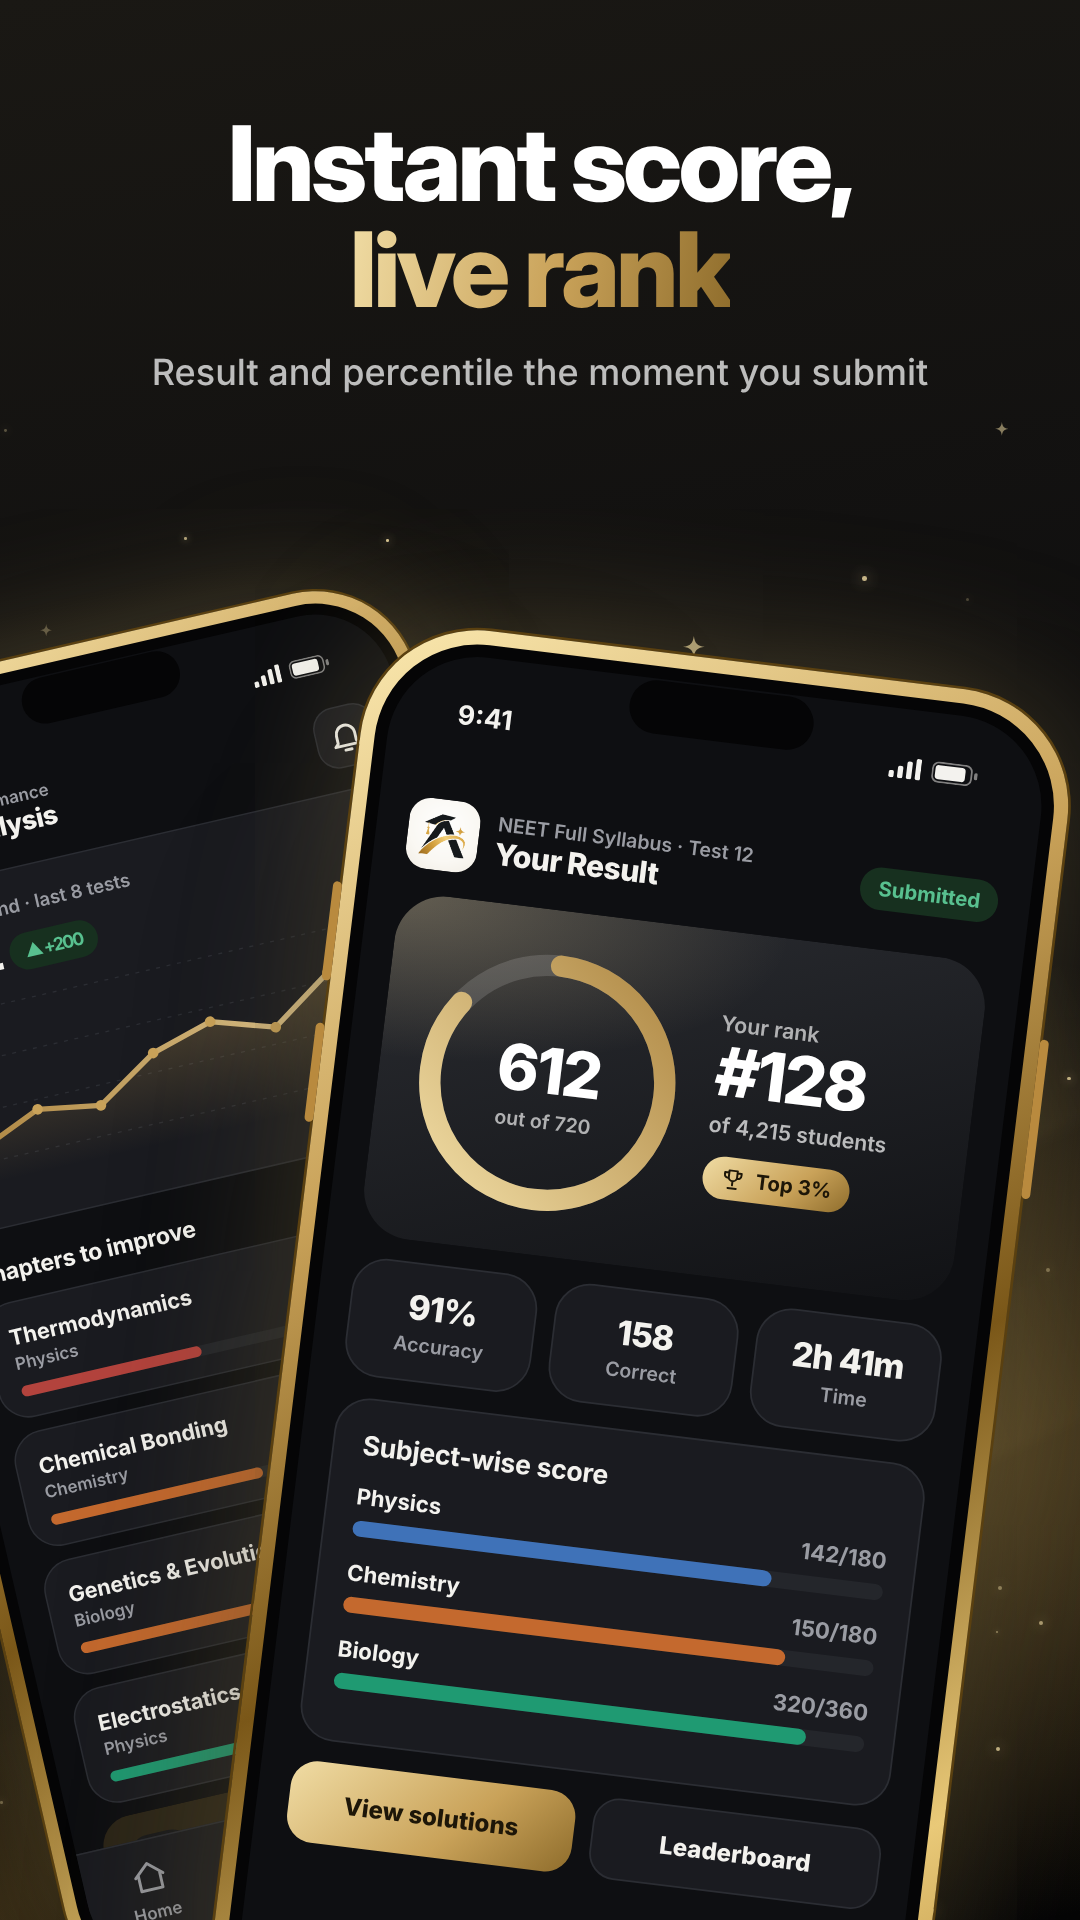
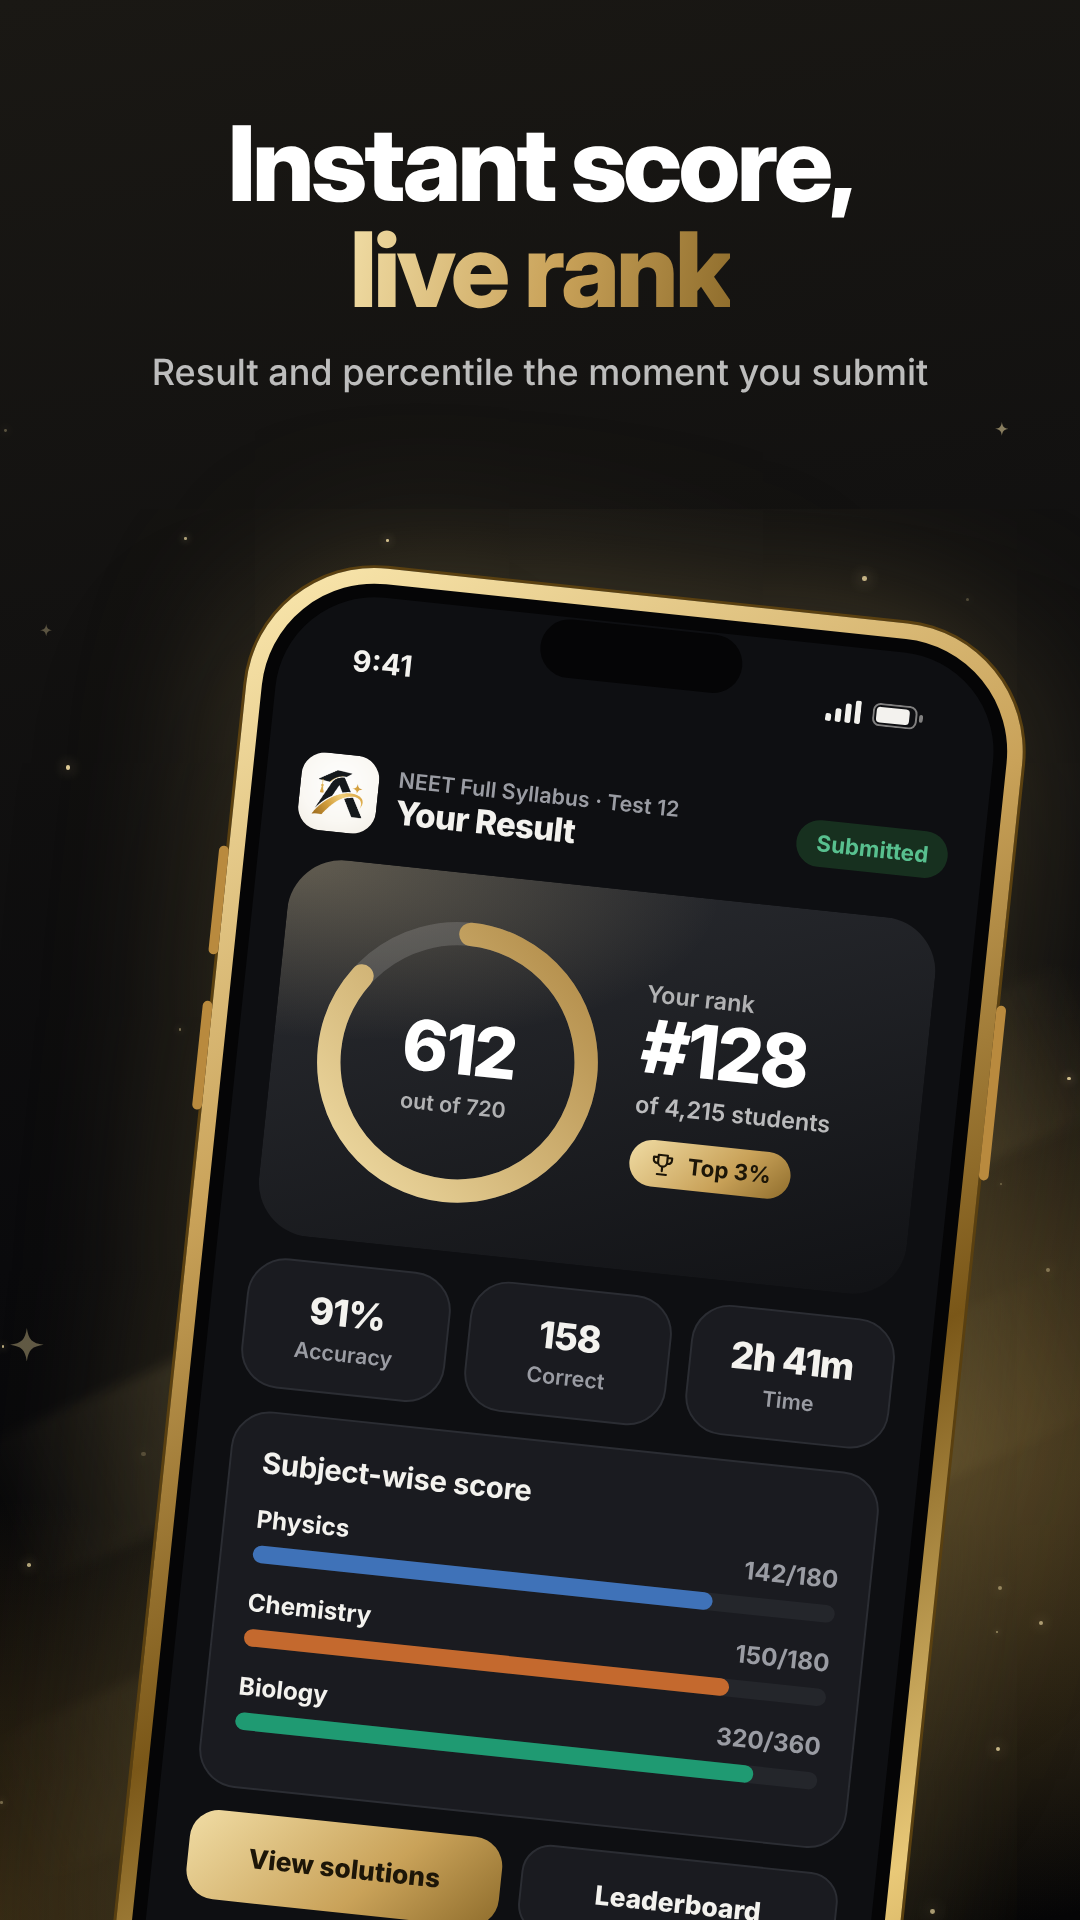
Play Store art: one large phone per screenshot
Claude-Session: https://claude.ai/code/session_01X2uHTRVsjurXKKG3aQSMPH

Changed region(s): [[0.0, 0.2812, 1.0, 1.0], [0.0, 0.4062, 0.1222, 0.5312]]

diff --git a/playstore/source.html b/playstore/source.html
@@ -195,8 +195,7 @@ const ph=(scr,x,y,s,r,z=1)=>`<div class="phone" style="left:${x}px;top:${y}px;tr
 const copy=(h,s)=>`<div class="copy"><h1>${h}</h1><div class="sub">${s}</div></div>`;
 const dkBg=()=>`<div class="streak" style="top:1200px;transform:rotate(-24deg)"></div><div class="streak" style="top:1500px;transform:rotate(-24deg);opacity:.6"></div>${sparkles(70)}`;
 // pair: front phone right (side=1) or left (side=-1)
-const pair=(front,back,side)=>{const fx=540+side*95,bx=540-side*300;
- return ph(back,bx,1290,1.55,side*-1*13+0,1)+ph(front,fx,1420,1.78,side*7,2)};
+const pair=(front,back,side)=>ph(front,540+side*20,1430,1.95,side*6,2);
 const slides=[
  ()=>`<div class="slide bg-dk">${dkBg()}${copy('Your complete<br><em>exam prep</em> app','NEET · JEE · CBSE mock tests with live rank')}${pair(S.home(true),S.store(true),1)}</div>`,
  ()=>`<div class="slide bg-iv">${copy('Practice on the<br><em>real exam</em> interface','Timer, palette and marking — just like exam day')}${pair(S.exam(true),S.pyq(true),-1)}</div>`,
@@ -210,8 +209,7 @@ const fg=()=>`<div class="fg bg-dk" style="position:relative"><div class="streak
   <div class="row" style="gap:16px"><img src="logo.png" style="width:78px;height:78px;border-radius:22px"><div><div style="font-family:'Inter Display';font-weight:800;font-size:40px;letter-spacing:-.03em;line-height:1">Aspiron</div><div style="font-size:15px;font-weight:700;letter-spacing:.34em;opacity:.6;margin-top:6px">EDUCATION</div></div></div>
   <div style="font-family:'Inter Display';font-weight:800;font-size:54px;line-height:1.04;letter-spacing:-.035em;margin-top:34px">NEET &amp; JEE<br><span style="background:linear-gradient(100deg,#f0dca4,#c9a259 55%,#8f6d2c);-webkit-background-clip:text;background-clip:text;color:transparent">mock tests</span><br>with live rank</div>
   <div style="font-size:20px;font-weight:500;opacity:.7;margin-top:18px">CBT tests · PYQs · Analysis · Hindi + English</div></div>
- <div class="phone" style="left:930px;top:400px;transform:translate(-50%,-50%) scale(.7) rotate(12deg);z-index:0"><div class="isl"></div>${S.home(true)}</div>
- <div class="phone" style="left:715px;top:300px;transform:translate(-50%,-50%) scale(.82) rotate(8deg);z-index:2"><div class="isl"></div>${S.result(true)}</div></div>`;
+ <div class="phone" style="left:780px;top:330px;transform:translate(-50%,-50%) scale(.95) rotate(8deg);z-index:2"><div class="isl"></div>${S.result(true)}</div></div>`;
 const q=new URLSearchParams(location.search);const n=q.get('s');
 document.getElementById('root').innerHTML = n==='fg'?fg():slides[+n-1]();
 </script></body></html>
